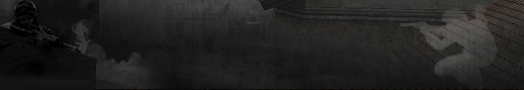
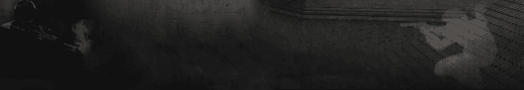
Fixed #57; Image optimizing

Changed region(s): [[0.1832, 0.6444, 0.2748, 0.9333], [0.4885, 0.0222, 0.5191, 0.0444]]

diff --git a/lgsl_files/styles/wallpaper_style.css b/lgsl_files/styles/wallpaper_style.css
@@ -58,16 +58,6 @@ textarea {background-color: rgba(26, 28, 34, 0.2); border: 1px solid rgba(26, 28
   z-index: 5;
   background-size: cover;
 }
-.details_info_column:nth-child(2) {
-  border-radius: 4px;
-  box-shadow: 0 2px 5px 0 rgba(0,0,0,0.16),0 2px 10px 0 rgba(0,0,0,0.12) !important;
-}
-.details_password_image {
-  background-position: 100% 100%;
-  position: absolute;
-  background-size: auto;
-  background-repeat: no-repeat;
-}
 .details_location_image {
   width: 16px;
   height: 11px;
@@ -107,9 +97,10 @@ div[id^="servername"] { margin:auto; text-align:center; font-weight:bold; paddin
   box-shadow: 0 2px 5px 0 rgba(0,0,0,0.16),0 2px 10px 0 rgba(0,0,0,0.12) !important;
 }
 .details_password_image {
-  background-position: 100% 100%;
+  background-position: calc(100% - 3px) calc(100% - 3px);
   position: absolute;
   background-size: auto;
+  background-repeat: no-repeat;
   width: 48px;
   height: 56px;
   right: 4px;

diff --git a/lgsl_files/styles/ogp_style.css b/lgsl_files/styles/ogp_style.css
@@ -75,7 +75,7 @@ a:hover, a:active { color:#fff; }
   box-shadow: 0 2px 5px 0 rgba(0,0,0,0.16),0 2px 10px 0 rgba(0,0,0,0.12) !important;
 }
 .details_password_image {
-  background-position: 100% 100%;
+  background-position: calc(100% - 3px) calc(100% - 3px);
   position: absolute;
   background-size: auto;
   background-repeat: no-repeat;

diff --git a/lgsl_files/styles/parallax_style.css b/lgsl_files/styles/parallax_style.css
@@ -92,7 +92,7 @@ a:hover, a:active { color:#fff; }
   box-shadow: 0 2px 5px 0 rgba(0,0,0,0.16),0 2px 10px 0 rgba(0,0,0,0.12) !important;
 }
 .details_password_image {
-  background-position: 100% 100%;
+  background-position: calc(100% - 3px) calc(100% - 3px);
   position: absolute;
   background-size: auto;
   background-repeat: no-repeat;

diff --git a/lgsl_files/styles/breeze_style.css b/lgsl_files/styles/breeze_style.css
@@ -62,7 +62,7 @@ a:active { color:#8298b9;}
   box-shadow: 0 2px 5px 0 rgba(0,0,0,0.16),0 2px 10px 0 rgba(0,0,0,0.12) !important;
 }
 .details_password_image {
-  background-position: 100% 100%;
+  background-position: calc(100% - 3px) calc(100% - 3px);
   position: absolute;
   background-size: auto;
   background-repeat: no-repeat;

diff --git a/lgsl_files/styles/cards_style.css b/lgsl_files/styles/cards_style.css
@@ -60,7 +60,7 @@ a:active { color:#8298b9;}
   box-shadow: 0 2px 5px 0 rgba(0,0,0,0.16),0 2px 10px 0 rgba(0,0,0,0.12) !important;
 }
 .details_password_image {
-  background-position: 100% 100%;
+  background-position: calc(100% - 3px) calc(100% - 3px);
   position: absolute;
   background-size: auto;
   background-repeat: no-repeat;

diff --git a/lgsl_files/styles/darken_style.css b/lgsl_files/styles/darken_style.css
@@ -72,7 +72,7 @@ input[type="checkbox" i] {
   box-shadow: 0 2px 5px 0 rgba(0,0,0,0.16),0 2px 10px 0 rgba(0,0,0,0.12) !important;
 }
 .details_password_image {
-  background-position: 100% 100%;
+  background-position: calc(100% - 3px) calc(100% - 3px);
   position: absolute;
   background-size: auto;
   background-repeat: no-repeat;

diff --git a/lgsl_files/styles/disc_ff_style.css b/lgsl_files/styles/disc_ff_style.css
@@ -59,7 +59,7 @@ a:active{ color:#adcef1; }
   box-shadow: 0 2px 5px 0 rgba(0,0,0,0.16),0 2px 10px 0 rgba(0,0,0,0.12) !important;
 }
 .details_password_image {
-  background-position: 100% 100%;
+  background-position: calc(100% - 3px) calc(100% - 3px);
   position: absolute;
   background-size: auto;
   background-repeat: no-repeat;

diff --git a/lgsl_files/styles/material_style.css b/lgsl_files/styles/material_style.css
@@ -120,7 +120,7 @@ a:hover {
   box-shadow: 0 2px 5px 0 rgba(0,0,0,0.16),0 2px 10px 0 rgba(0,0,0,0.12) !important;
 }
 .details_password_image {
-  background-position: 100% 100%;
+  background-position: calc(100% - 3px) calc(100% - 3px);
   position: absolute;
   background-size: auto;
   background-repeat: no-repeat;

diff --git a/lgsl_files/scripts/preview.js b/lgsl_files/scripts/preview.js
@@ -31,6 +31,7 @@ document.querySelectorAll('#server_list_table > tbody > tr > td.map_cell').forEa
 		el.style.display = 'none';
 		el.style.position = 'absolute';
 		el.style.marginTop = '5px';
+		el.style.zIndex = '10';
 		el.className = 'mapImage' + b;
 		a.appendChild(el);
 

diff --git a/lgsl_files/styles/classic_style.css b/lgsl_files/styles/classic_style.css
@@ -59,7 +59,7 @@ a:active { color:#7500c0; }
   background-size: cover;
 }
 .details_password_image {
-  background-position: 100% 100%;
+  background-position: calc(100% - 3px) calc(100% - 3px);
   position: absolute;
   background-size: auto;
   background-repeat: no-repeat;

diff --git a/lgsl_files/lgsl_zone.php b/lgsl_files/lgsl_zone.php
@@ -67,15 +67,15 @@
 
     .marquee span.on {
       display:inline-block;
-      animation: marquee 8s infinite linear alternate;
+      animation: marquee 10s infinite linear alternate;
     }
     .sidebarserver table:hover .marquee span.on {
-      animation: marquee 2s infinite linear alternate;
+      animation: marquee 4s infinite linear alternate;
     }
 
     @keyframes marquee{
-      0%{transform: translateX(25%);}
-      100%{transform: translateX(-25%);}
+      0%{transform: translateX(15px);}
+      100%{transform: translateX(calc(-100% + {$zone_width} - 15px));}
     }
   </style>
   <table cellpadding='0' cellspacing='0' style='width:100%; margin:auto; text-align:center' class='sidebarserver'>
@@ -127,7 +127,7 @@
               <div style='left:0px; right:0px; top:0px; bottom:0px; width:{$zone_width}; padding:0px; position:relative'>
                 <a href='".lgsl_link($server['o']['id'])."'>
                   <img alt='' src='{$misc['image_map']}'          title='{$lgsl_config['text']['vsd']}' style='vertical-align:middle; width: 100%; border-radius: 4px;' />
-                  <img alt='' src='{$misc['image_map_password']}' title='{$lgsl_config['text']['vsd']}' style='position:absolute; z-index:2; top:0px; left:0px;' />
+                  <img alt='' src='{$misc['image_map_password']}' title='{$lgsl_config['text']['vsd']}' style='position:absolute; z-index:2; bottom:2px; right:2px;' />
                   <img alt='' src='{$misc['icon_game']}'          title='{$misc['text_type_game']}'     style='position:absolute; z-index:2; top:2px; left:2px; width: 24px; border-radius: 4px;' />
                   <img alt='' src='{$misc['icon_location']}'      title='{$misc['text_location']}'      style='position:absolute; z-index:2; top:2px; right:2px;' />
                 </a>

diff --git a/userbar.php b/userbar.php
@@ -19,7 +19,9 @@
 	require "lgsl_files/lgsl_class.php";
 	$lookup = lgsl_lookup_id($_GET['s']);
   if(!$lookup){
-    imagestring($im, 1, (int)($w / 2 - strlen($lgsl_config['text']['mid']) * 2.2), (int)($h / 2 - 4), $lgsl_config['text']['mid'], $color_map);
+    header("Content-type: image/gif");
+    $im = imagecreatetruecolor(350, 20);
+    imagestring($im, 1, (int)(175 - strlen($lgsl_config['text']['mid']) * 2.2), 6, $lgsl_config['text']['mid'], imagecolorallocate($im, 255, 0, 0));
     imagegif($im);
     imagedestroy($im);
     exit();
